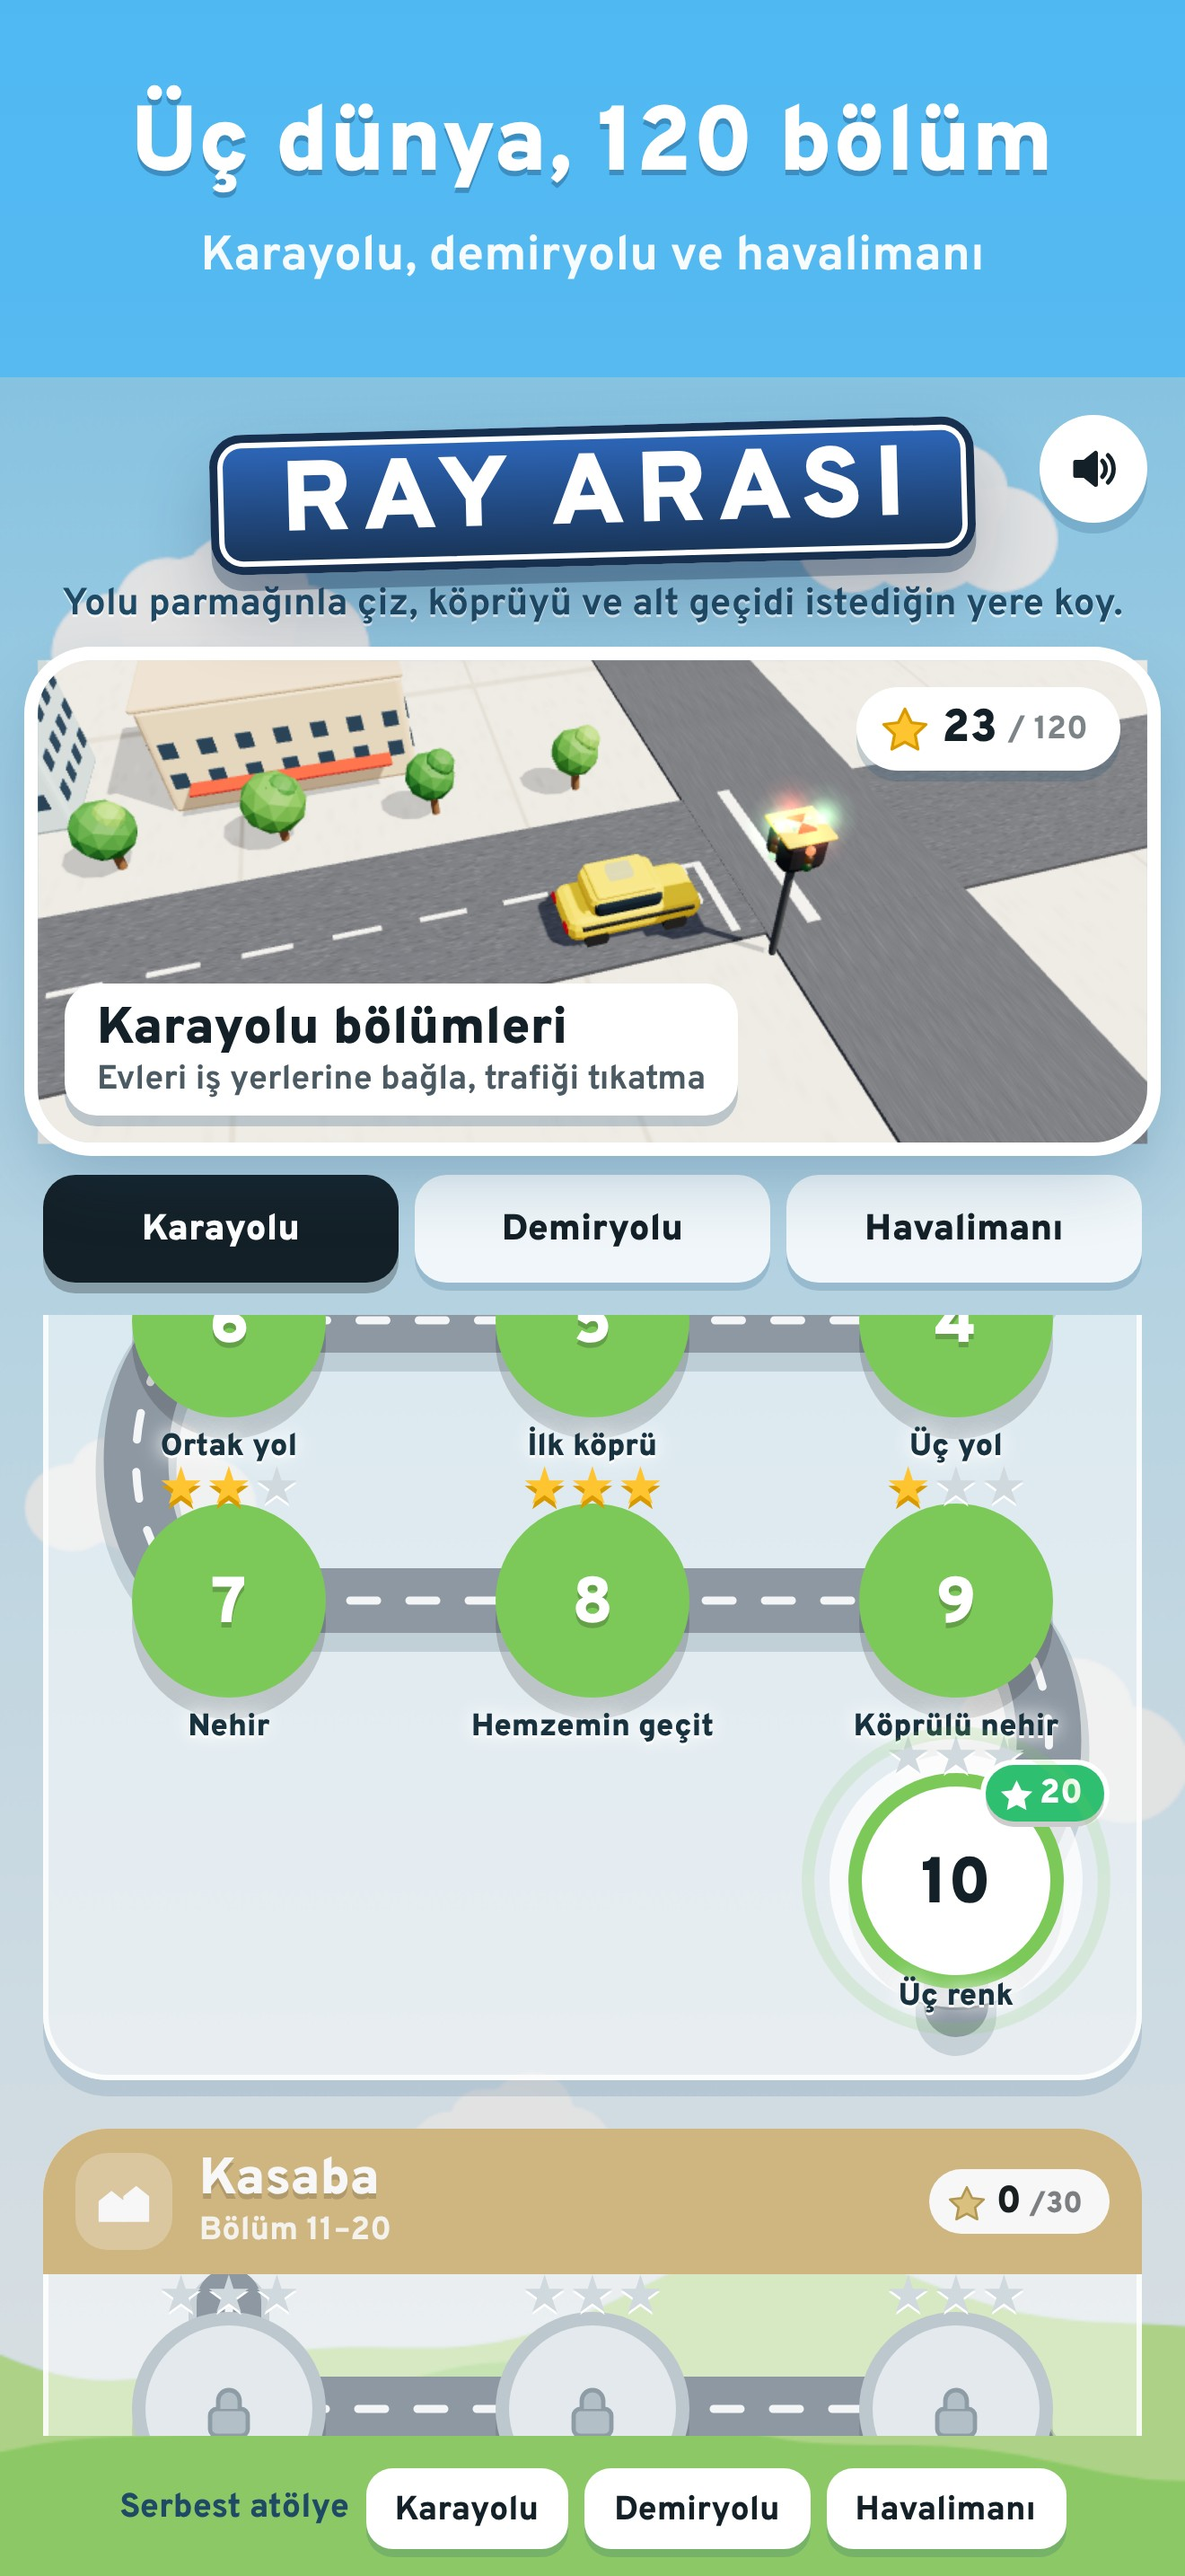
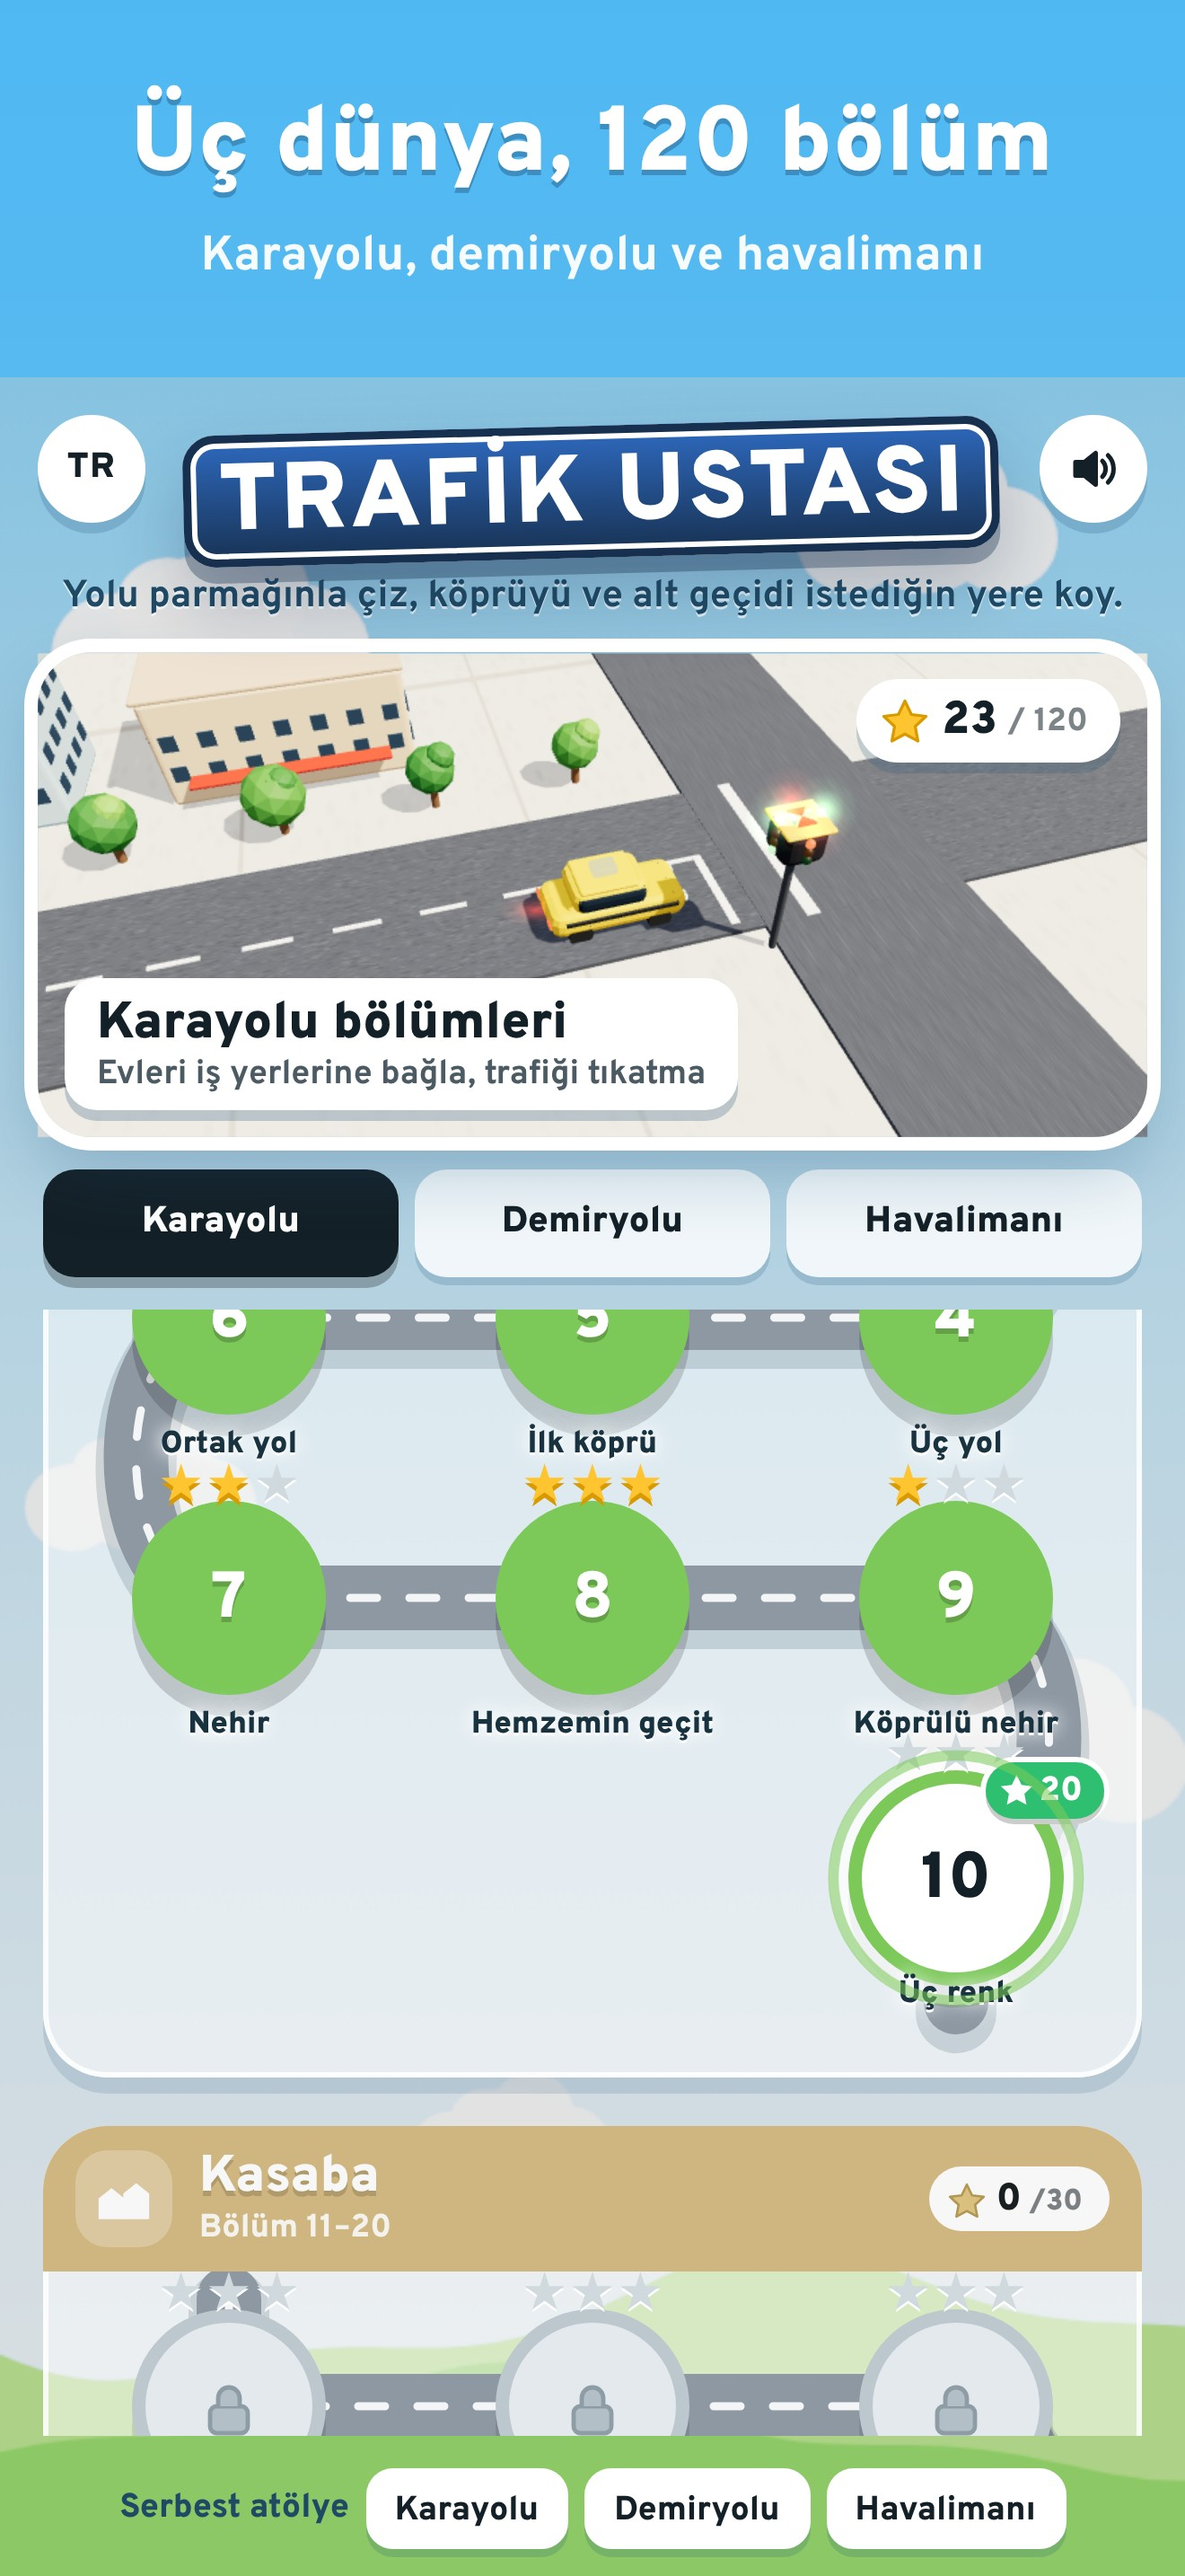
İngilizce dil desteği tamamlandı; yeni adla mağaza görselleri
- Bölüm ekranı (en-bolum.js, lv-game/net/view), serbest atölye (en-atolye.js, workshop, ws-*),
  120 bölüm metni (en-bolumler.js): ekranda Türkçe kalan metin yok (dil-kontrol: 1133 metin, 0)
- Türkçe çıktı aynı: kontrol.cjs 208/208, bolumler.cjs 281/281
- Mağaza görselleri Türkçe ve İngilizce (App Store 6,9", Play telefon, öne çıkan görsel);
  başlıklar tek satıra sığar; oyun yeniden paketlendi

Claude-Session: https://claude.ai/code/session_0156CvAogtVYziKRmLM3uGcM

diff --git a/ray-arasi/js/en-bolum.js b/ray-arasi/js/en-bolum.js
@@ -33,7 +33,7 @@
     'İŞ YERİ': 'WORKPLACE',
     'FABRİKA': 'FACTORY',
     'OKUL': 'SCHOOL',
-    'AVM': 'MALL',
+    'AVM': 'Mall',
     'OFİS': 'OFFICE',
     'HASTANE': 'HOSPITAL',
     'STADYUM': 'STADIUM',
@@ -83,7 +83,7 @@
     'Çizmek için parmağını sürükle: bir evin önünden aynı renkteki binanın önüne.': 'Drag your finger to draw, from one building\'s marker to the building of the same color.',
     // köprü / alt geçit / tünel kurma
     '{Name} hakkın bitti.': '{Name} limit reached.',
-    '{Name} hakkın bitti. Birini kaldırmak için {name} işaretine dokunup Kavşak seç.': '{Name} limit reached. To free one up, tap a {name} marker and choose {Jn}.',
+    '{Name} hakkın bitti. Birini kaldırmak için {name} işaretine dokunup Kavşak seç.': '{Name} limit reached. To free one up, tap one on the map and choose {Jn}.',
     '{Name} hakkın bitti. Kurduğun bir {name}yü kaldırmak için × işaretine dokun.': '{Name} limit reached. Tap × on one you placed to remove it.',
     '{Name} yapabileceğin {n} kesişim parlıyor: birine dokun. Boş bir yere dokunursan (sürükleyerek yön verirsin) {name} önceden kurulur. ({left} hakkın var)': '{Name}: {n} {n:spot glows:spots glow}. Tap one, or tap an empty spot to set one up in advance (drag to aim it). ({left} left)',
     '{Name} kurmak istediğin yere dokun; yönünü vermek için sürükle. Sonra oradan geçen yolları çiz. ({left} hakkın var)': '{Name}: tap where you want it and drag to aim it. Then draw the {ways} that pass through it. ({left} left)',

diff --git a/ray-arasi/js/lv-view.js b/ray-arasi/js/lv-view.js
@@ -397,7 +397,8 @@
       const label = b.role === 'arr' ? RA.t('İNİŞ') : b.role === 'dep' ? RA.t('KALKIŞ') : b.role === 'gate' ? RA.t('KAPI {g}', { g: RA.LV.GATE_L[b.color] || '' }) :
         RA.t(mode === 'rail' ? (b.kind === 'house' ? 'İSTASYON' : ({ gar: 'GAR', liman: 'LİMAN', maden: 'MADEN' }[b.type] || 'GAR')) :
           b.kind === 'house' ? 'EVLER' : ({ fabrika: 'FABRİKA', okul: 'OKUL', avm: 'AVM', ofis: 'OFİS', hastane: 'HASTANE', stadyum: 'STADYUM' }[b.type] || 'İŞ YERİ'));
-      const sp = new T.Sprite(new T.SpriteMaterial({ map: signTex(label, col.css), depthTest: false, transparent: true }));
+      // tabela hep büyük harf (sözlükteki karşılık başka ekranda küçük harfle tanımlı olabilir: AVM → Mall)
+      const sp = new T.Sprite(new T.SpriteMaterial({ map: signTex(label.toLocaleUpperCase(RA.dil === 'tr' ? 'tr-TR' : 'en-US'), col.css), depthTest: false, transparent: true }));
       sp.center.set(0.5, 0); sp.scale.set(2.6, 0.98, 1); sp.position.set(b.x - b.ux * 0.6, 2.1, b.z - b.uz * 0.6); sp.renderOrder = 15; g.add(sp);
       const an = new T.Mesh(new T.PlaneGeometry(1.5, 1.5), new T.MeshBasicMaterial({ map: anchorTex(col.css), transparent: true, depthWrite: false }));
       an.rotation.x = -Math.PI / 2; an.position.set(b.ex, 0.05, b.ez); an.renderOrder = 5; g.add(an);

diff --git a/ray-arasi/BENIOKU.md b/ray-arasi/BENIOKU.md
@@ -471,6 +471,8 @@ ray-arasi/
 ├── index.html              Sayfa ve arayüz iskeleti
 ├── css/style.css           Arayüz (emaye levha tarzı düğmeler ve araç çubuğu)
 ├── js/core.js              Matematik, kayıt, ses (WebAudio), yollar, geometri yardımcıları
+├── js/dil.js               Dil desteği: RA.t sözlüğü, cihaz diline göre seçim, TR/EN düğmesi, oyun adı
+├── js/en-*.js              İngilizce karşılıklar (arayüz, bölüm ekranı, atölye, 120 bölüm metni)
 ├── js/models.js            Oyuncak maket modelleri (tren, vagon, araçlar, uçak, ağaç, bina, ışık, sinyal)
 ├── js/ws-grid.js           Izgara, çizim/silme kuralları, başlangıç (4 düz hat) ve örnek düzenler
 ├── js/ws-net.js            Şerit ve hat geometrisi, rampa yükseklikleri, kavşak çakışmaları, rota arama
@@ -490,7 +492,8 @@ ray-arasi/
 ├── ekran-goruntuleri/      Ana ekran (bölüm haritası, demiryolu ve havalimanı sekmeleri), bölüm kartı, serbest çizim, kesişim seçimi, köprü yerleri, önceden kurulan köprü, gerçekçi kavşak, köprü, büyük haritalar (14 Dağ yolu, 20 Megakent), demiryolu (nehir ve dağ, büyük gar, hızlı tren ağı), havalimanı (taksi köprüsü, mega havalimanı, ayrı pistler), nehir, alt geçit, büyük kavşak, kazanma, masaüstü
 ├── manifest.webmanifest    "Ana ekrana ekle" bilgileri
 ├── test/kontrol.cjs        İsteğe bağlı uçtan uca kontrol betiği (tarayıcıda)
-└── test/bolumler.cjs       120 bölümün hepsini tarayıcısız oynayan bölüm denetimi
+├── test/bolumler.cjs       120 bölümün hepsini tarayıcısız oynayan bölüm denetimi
+└── test/dil-kontrol.cjs    Oyunu İngilizce açıp Türkçe kalan metinleri bulan denetim
 ```
 
 Bütün görseller kodla üretilir (üç boyutlu modeller, dokular, sesler); dışarıdan görsel ya da ses dosyası yüklenmez.
